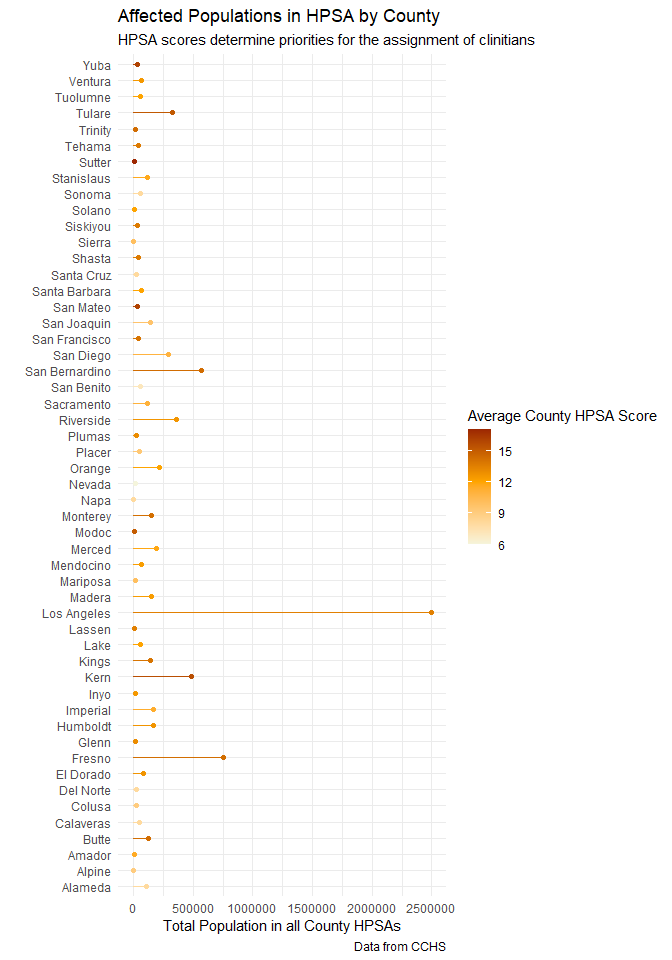
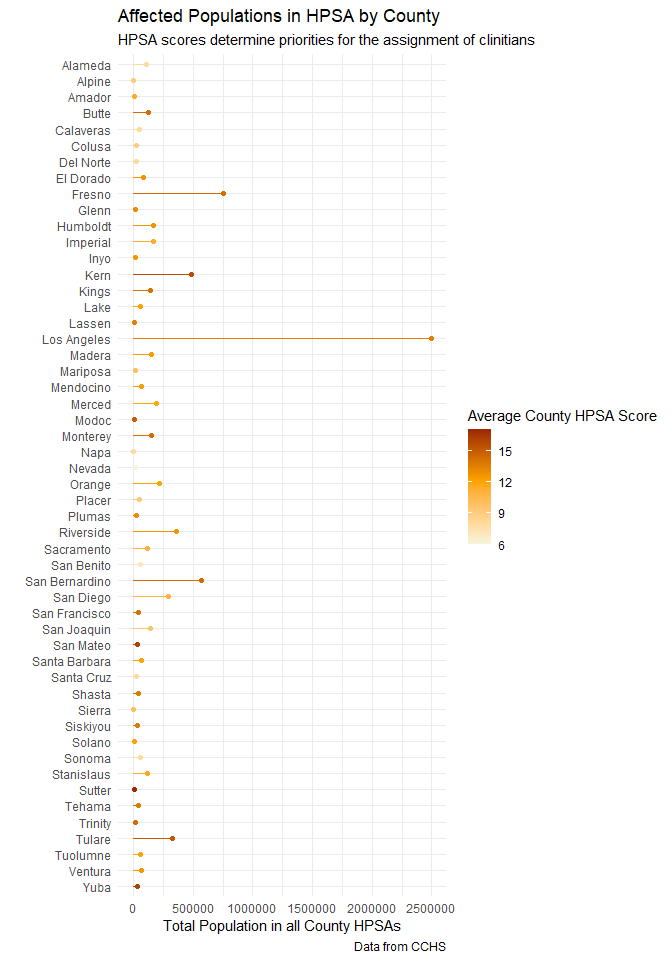
fix y axis

diff --git a/README.md b/README.md
@@ -352,6 +352,7 @@ pairing them with other libraries and analyzing it:
 ``` r
 # Load the graphing library ggplot2 and data management library dplyr
 library(dplyr)
+library(forcats)
 library(ggplot2)
 
 # Wrangle some data to identify the average Health Professional Shortage Area 
@@ -363,7 +364,7 @@ demo <- rcahelpr::hpsa_primarycare %>%
 
 # Make a beautiful graph
 ggplot(data = demo) +
-  geom_point(aes(x = total_hpsa_population , y = County_Equivalent_Name,
+  geom_point(aes(x = total_hpsa_population , y = fct_rev(County_Equivalent_Name),
                  color = mean_hpsa_score)) +
   geom_segment(aes(x = 0 , xend = total_hpsa_population ,
                    y = County_Equivalent_Name, yend = County_Equivalent_Name,
